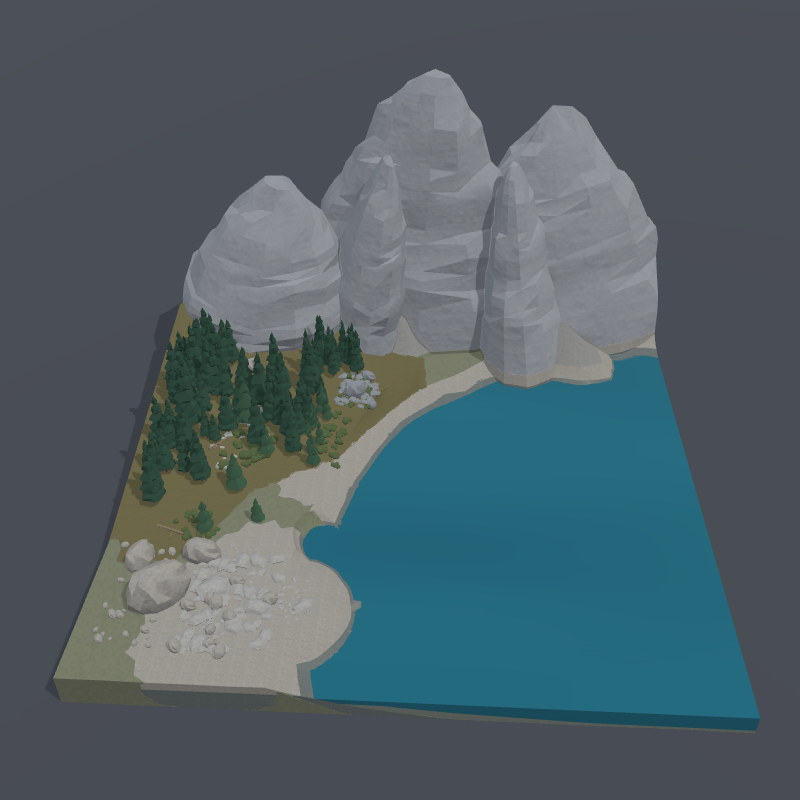
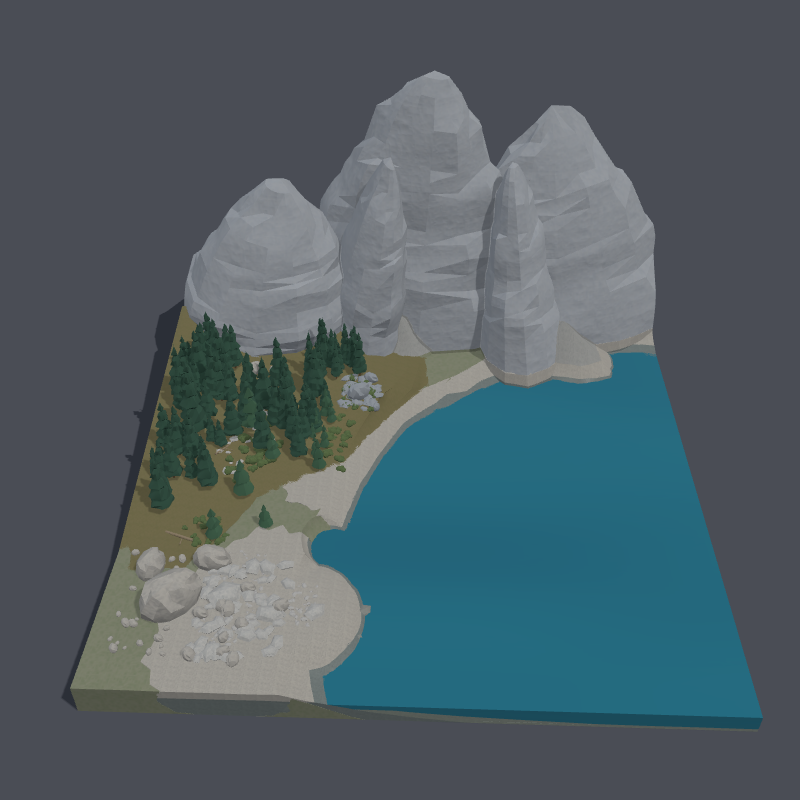
Lead the README with an observatory, its chart room and a buggy
The first row shows assets built on this release, and the lake is
reshot from the same camera.

diff --git a/README.ja.md b/README.ja.md
@@ -2,7 +2,7 @@
 
 [English](README.md) | 日本語
 
-<p><img src="docs/images/truss_bridge_plaza.png" width="24%" alt="掘り下げた広場に架かるトラス歩道橋"> <img src="docs/images/press.png" width="24%" alt="油圧プレス"> <img src="docs/images/pipe_organ.png" width="24%" alt="パイプオルガン"> <img src="docs/images/lake.png" width="24%" alt="湖のジオラマ"></p>
+<p><img src="docs/images/observatory.png" width="24%" alt="ドームを開いて望遠鏡をのぞかせた天文台"> <img src="docs/images/chart_room.png" width="24%" alt="天文台の中の星図室"> <img src="docs/images/buggy.png" width="24%" alt="前輪を切ったバギー"> <img src="docs/images/lake.png" width="24%" alt="湖のジオラマ"></p>
 
 Moraine は、リアルタイム 3D アセット向けの AI ネイティブなプロシージャルモデリングツールです。AI エージェントとともに 3D アセットを組み立て、作り込み、拡張することができます。エージェントがレシピを書き、テストが要件を検証し、あなたがどんなアセットにするかを決めます。
 

diff --git a/README.md b/README.md
@@ -2,7 +2,7 @@
 
 English | [日本語](README.ja.md)
 
-<p><img src="docs/images/truss_bridge_plaza.png" width="24%" alt="truss footbridge over a sunken plaza"> <img src="docs/images/press.png" width="24%" alt="hydraulic press"> <img src="docs/images/pipe_organ.png" width="24%" alt="pipe organ"> <img src="docs/images/lake.png" width="24%" alt="lake diorama"></p>
+<p><img src="docs/images/observatory.png" width="24%" alt="observatory with its dome open and a telescope"> <img src="docs/images/chart_room.png" width="24%" alt="star chart room inside the observatory"> <img src="docs/images/buggy.png" width="24%" alt="dune buggy with its front wheels turned"> <img src="docs/images/lake.png" width="24%" alt="lake diorama"></p>
 
 Moraine is an AI-native procedural modeling tool for real-time 3D
 assets. It lets you build, refine, and extend 3D assets together with
